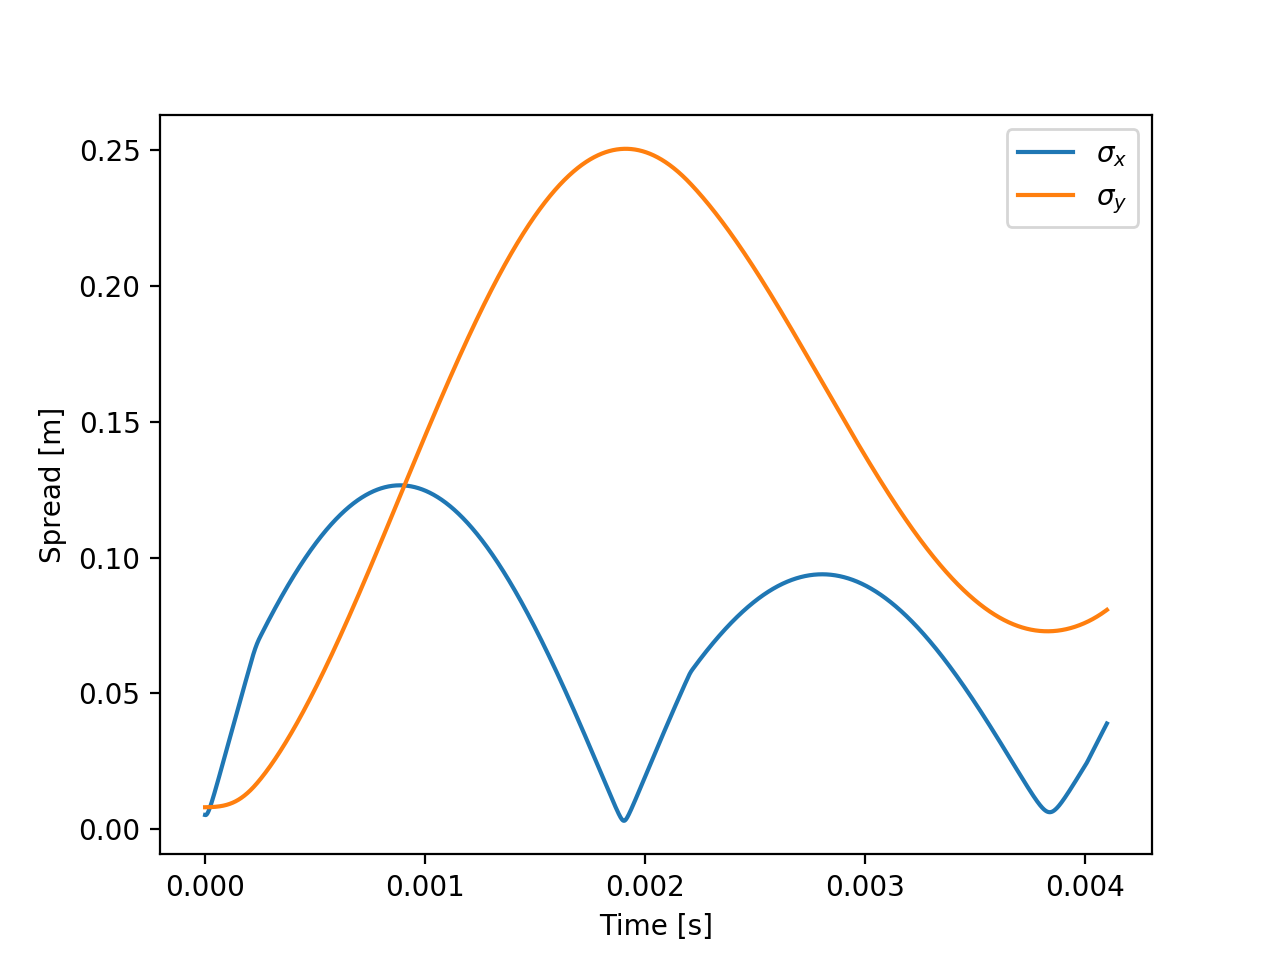
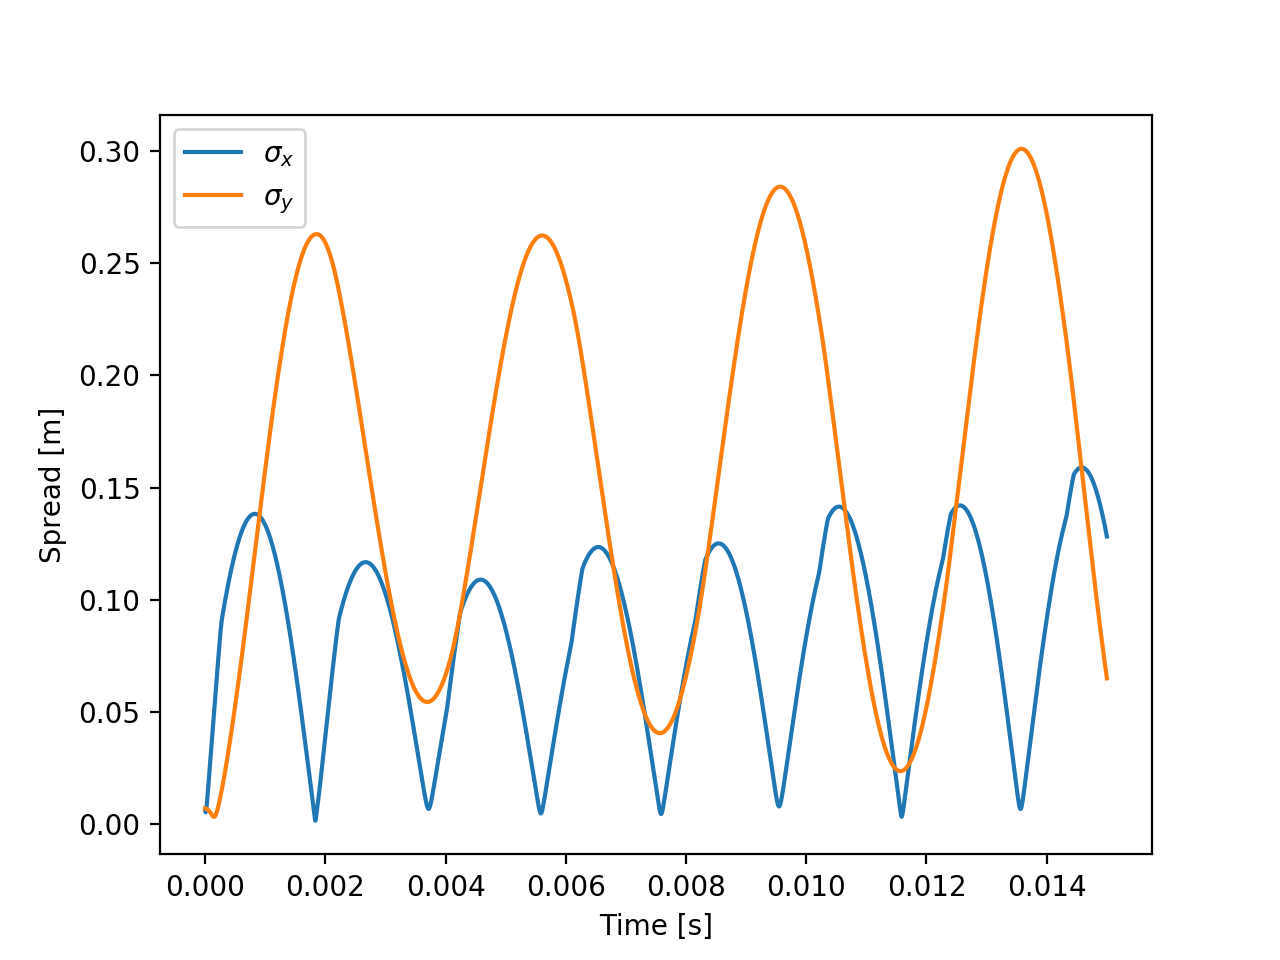
Better plots

diff --git a/Project/main.py b/Project/main.py
@@ -7,13 +7,13 @@ from EMField import EMField
 from ProtonBunch import ProtonBunch
 
 field = EMField([.1,0,0], [0,0,1.6*10**(-5)]) 
-protons = ProtonBunch(0.047,5)
+protons = ProtonBunch(0.047)
 
 log.logger.info('Initial average kinetic energy: %s eV' % protons.KineticEnergy())
 log.logger.info('Initial average momentum: %s kg m/s' % protons.momentum())
 log.logger.info('Initial bunch spread: %s m' % protons.spread())
 
-time, deltaT, duration = 0, 10**(-6), 0.0041
+time, deltaT, duration = 0, 10**(-6), 0.015
 
 timeSeries = []
 Data = []
@@ -25,31 +25,39 @@ while time <= duration:
     field.getAcceleration(protons.bunch, time, deltaT)
     temp_bunch = copy.deepcopy(protons)
     Data.append(temp_bunch)
+
 log.logger.info('simulation finished')
+log.logger.info('building lists')
 
-#magneticX, magneticY = np.meshgrid(list(range(-20,21,5)), list(range(-20,16,5)))
-
-log.logger.info('creating plots')
-plt.figure('Cyclotron with Bunch')
-
-plt.axvspan(field.electricLowerBound,field.electricUpperBound,alpha=0.5, color='grey',label='Electric Field')
-#plt.scatter(magneticX,magneticY,marker=r'$\bigotimes$',s=95,color='black',label='Magnetic Field')
-
-x,y,y_downSpread,y_upSpread, x_spread, y_spread = [],[],[],[],[],[]
+x,y,y_downSpread,x_upSpread,x_downSpread,y_upSpread,x_spread,y_spread = [],[],[],[],[],[],[],[]
 for bunch in Data:
     x.append(bunch.averagePosition()[0])
     y.append(bunch.averagePosition()[1])
+
+    x_downSpread.append(bunch.averagePosition()[0] - bunch.spread()[0])
+    x_upSpread.append(bunch.averagePosition()[0] + bunch.spread()[0])
     y_downSpread.append(bunch.averagePosition()[1] - bunch.spread()[1])
     y_upSpread.append(bunch.averagePosition()[1] + bunch.spread()[1])
+
     x_spread.append(bunch.spread()[0])
     y_spread.append(bunch.spread()[1])
 final = [x[-1], y[-1]]
-plt.plot(x,y,label=protons.bunchName)
-plt.scatter(final[0], final[1], marker='.')
-plt.fill_between(x,y_downSpread,y_upSpread)
+magneticX, magneticY = np.meshgrid(list(range(-10,11,5)), list(range(-15,11,5)))
+
+
+log.logger.info('creating plots')
+plt.figure('Cyclotron Bunch with Spread')
+
+plt.axvspan(field.electricLowerBound,field.electricUpperBound,alpha=0.5, color='grey',label='Electric Field')
+plt.scatter(magneticX,magneticY,marker=r'$\bigotimes$',s=95,color='black',label='Magnetic Field')
+plt.plot(x,y,label=protons.bunchName,color='blue')
+plt.scatter(final[0], final[1],color='blue')
+plt.fill_between(x,y_downSpread,y_upSpread, color='cornflowerblue',label="spread")
+plt.fill_betweenx(y, x_downSpread, x_upSpread, color='cornflowerblue')
 plt.xlabel(r'x  position  [m]')
 plt.ylabel(r'y  position [m]')
 plt.legend(loc='best',framealpha=1)
+
 
 plt.figure('Spread')
 plt.plot(timeSeries,x_spread,label=r'$\sigma_{x}$')
